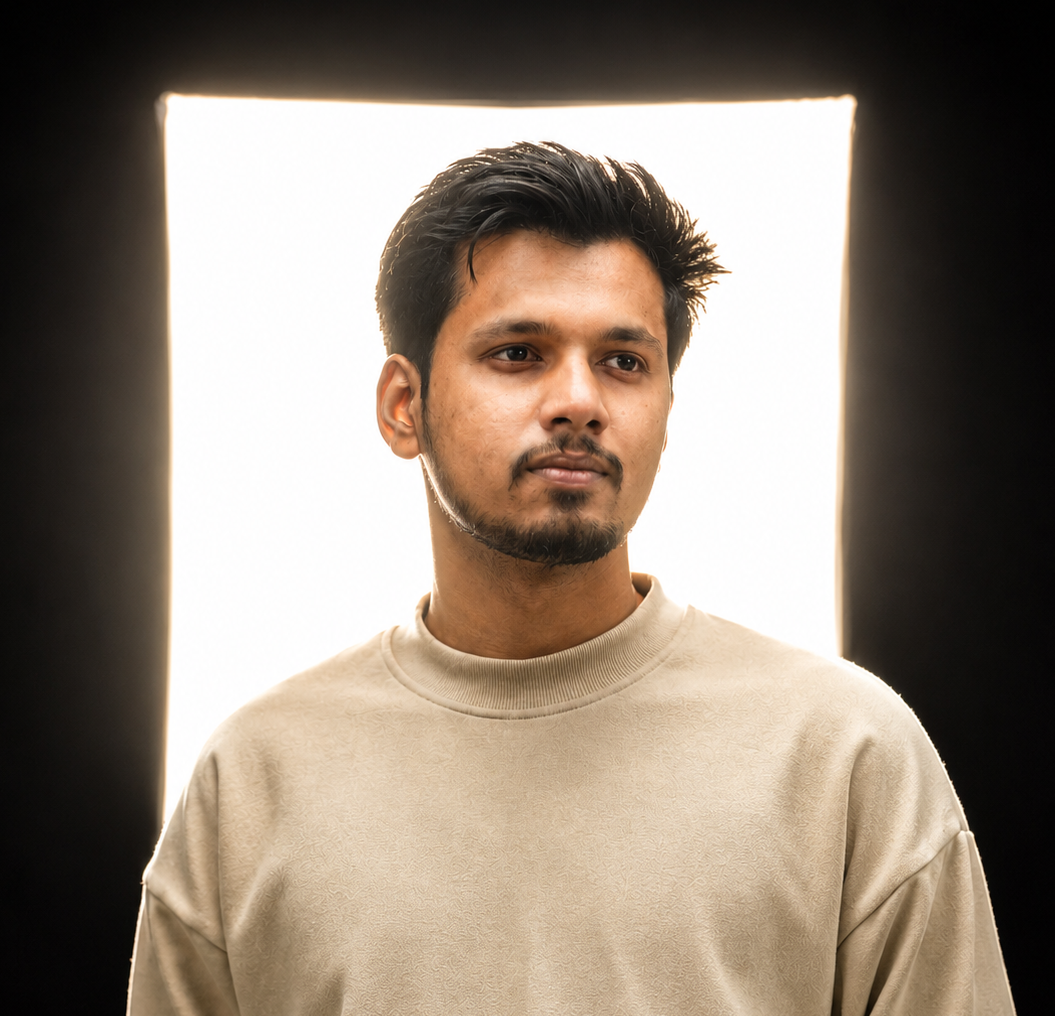
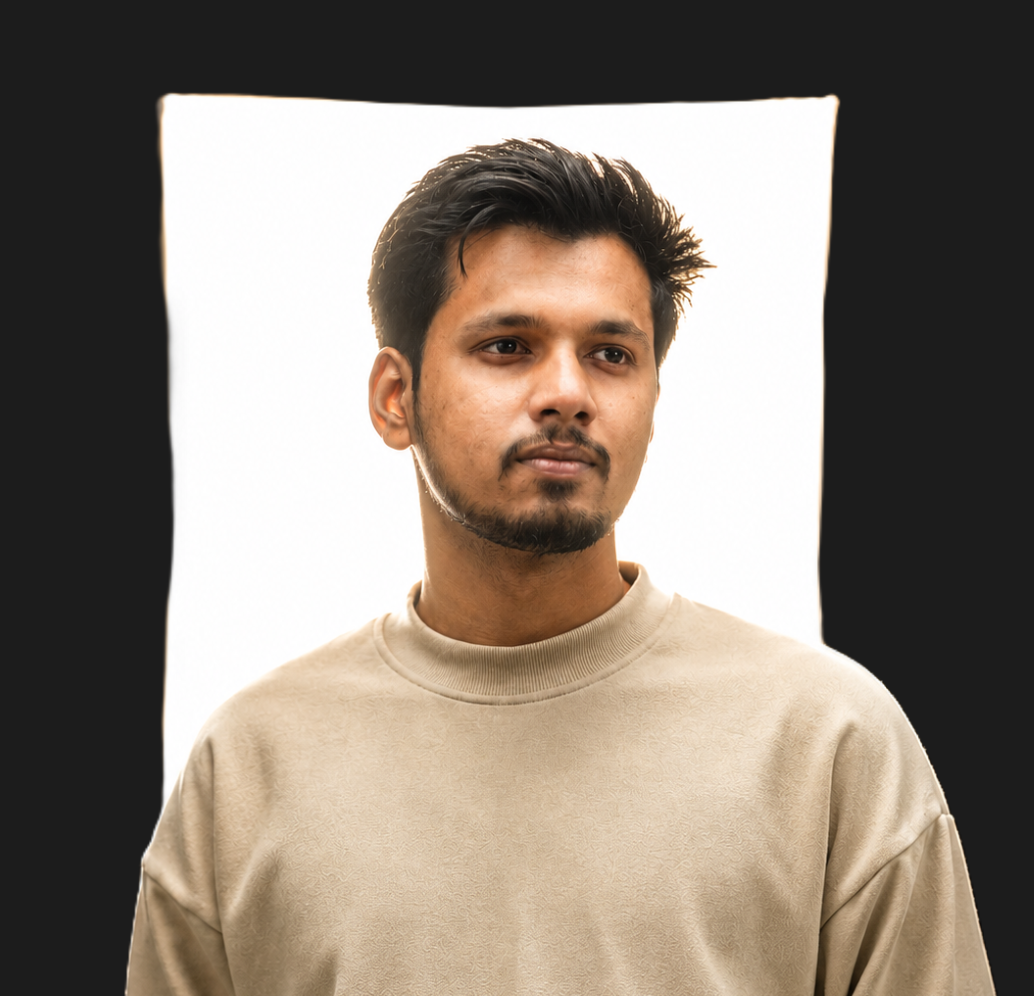
optimize scroll compatibility

diff --git a/src/App.jsx b/src/App.jsx
@@ -108,7 +108,7 @@ export default function App() {
         )}
       </AnimatePresence>
 
-      <div className="w-screen h-screen overflow-hidden bg-background text-foreground relative transition-colors duration-500">
+      <div className="w-full h-[100dvh] overflow-hidden bg-background text-foreground relative transition-colors duration-500">
       <nav className="absolute top-0 left-0 right-0 z-50 px-5 sm:px-8 py-3 sm:py-4">
         <div className="flex items-center justify-between w-full h-fit">
           <div className="hidden lg:flex flex-nowrap items-center gap-x-2 text-xs md:text-sm tracking-widest uppercase">

diff --git a/src/index.css b/src/index.css
@@ -86,6 +86,7 @@
     color: var(--foreground);
     font-family: 'Inter', sans-serif;
     transition: background-color 0.3s ease, color 0.3s ease;
+    overscroll-behavior-y: none;
   }
 
   h1, h2, h3, h4, h5, h6 {
@@ -94,6 +95,7 @@
 
   html {
     scroll-behavior: smooth;
+    overscroll-behavior-y: none;
   }
 
   ::-webkit-scrollbar {